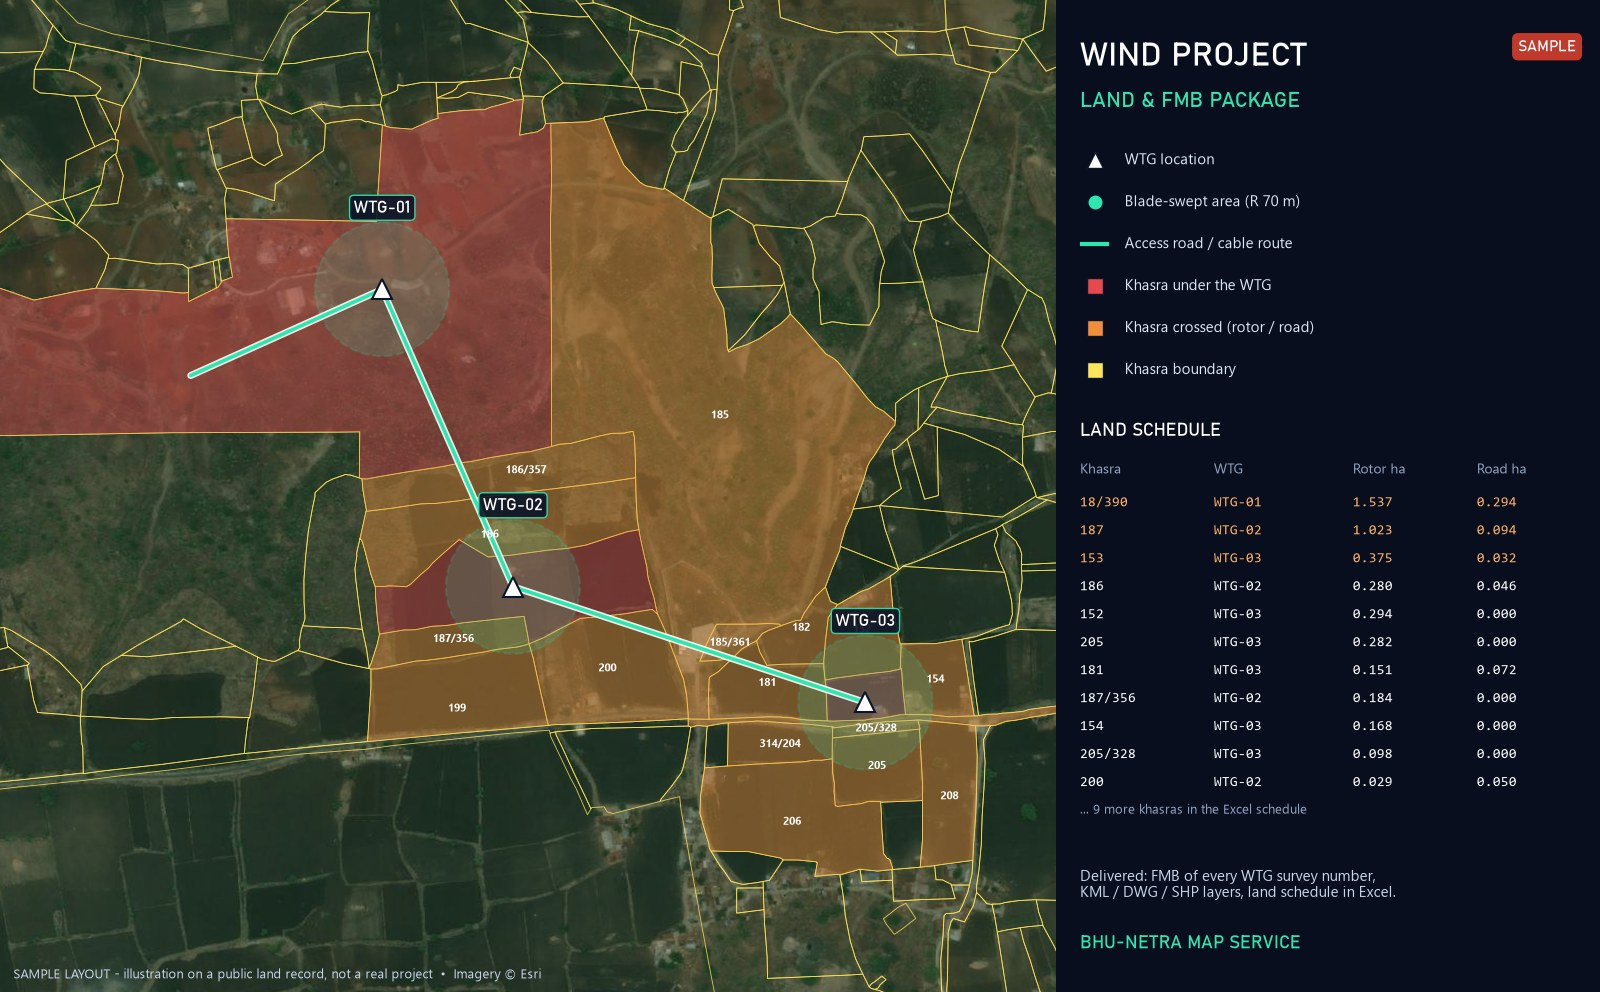
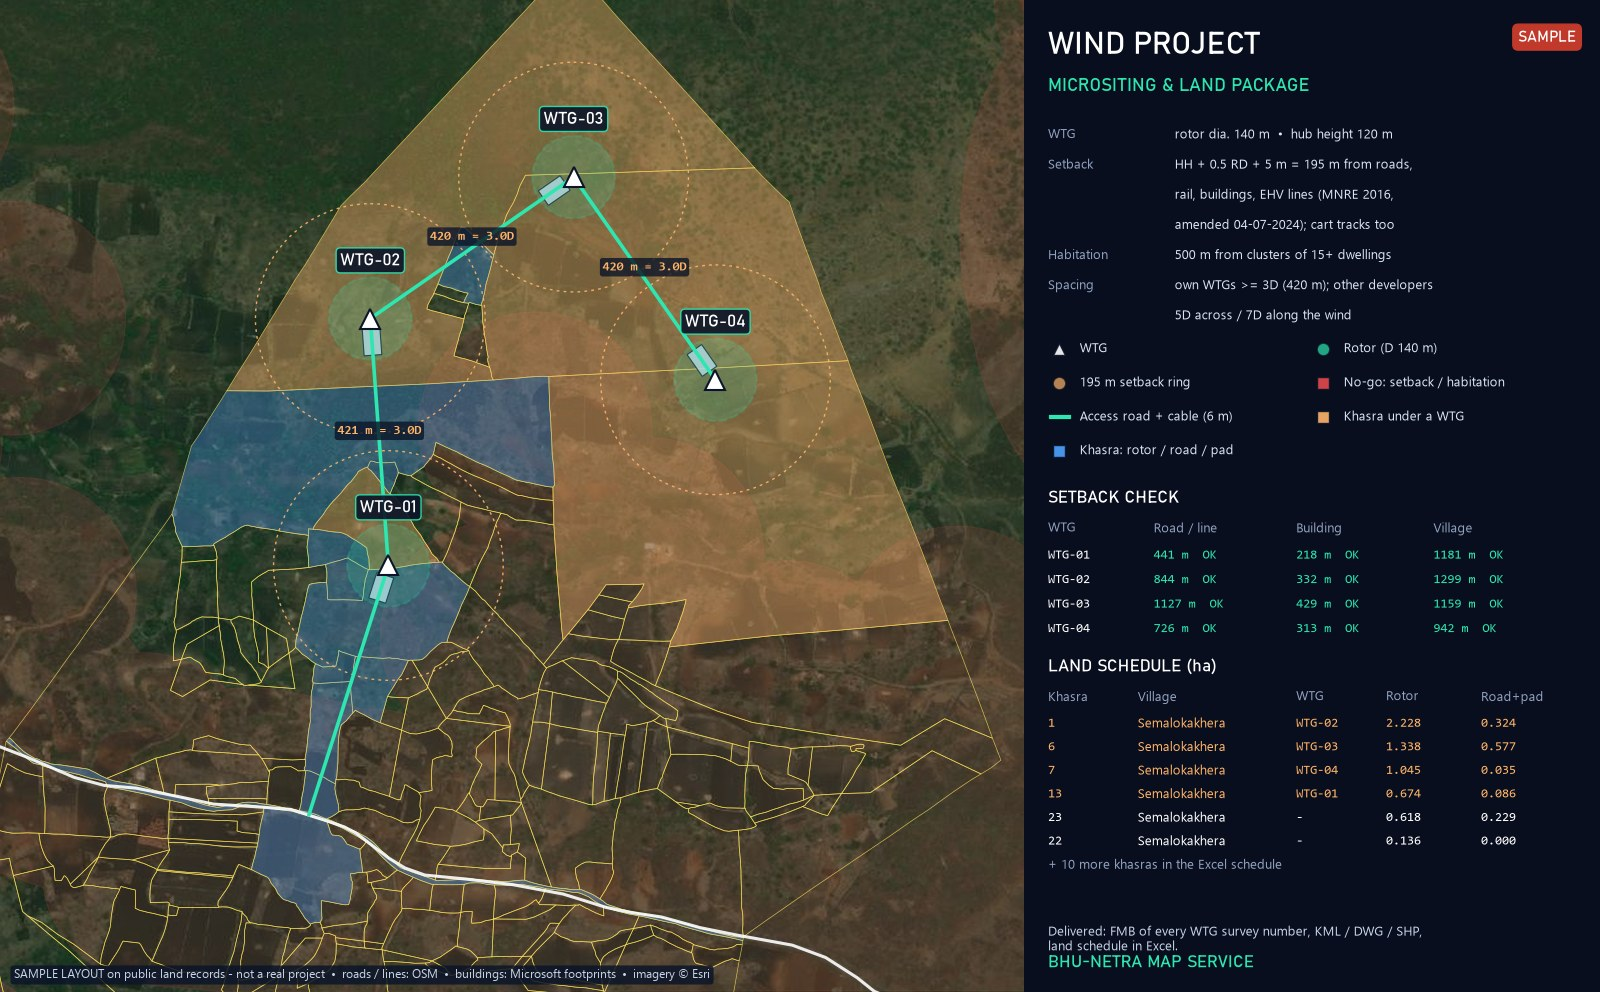
Wind layout redone to MNRE setbacks (140 m rotor, 195 m from roads/buildings, 500 m from villages; no WTG near any road) + solar layout sample

diff --git a/index.html b/index.html
@@ -222,7 +222,7 @@ section{padding:80px 0}
 .pw h3{font:700 19px Rajdhani,sans-serif;color:#fff;margin:6px 0}
 .pw p{color:#B9C7DF;font-size:14px}
 .svis{display:grid;grid-template-columns:repeat(3,1fr);gap:18px;margin-top:22px}
-.svis.wvis{grid-template-columns:1fr 1fr;margin:0 0 22px}
+.svis.wvis{margin:0 0 22px}
 .libcard small a{color:var(--em-lit)}
 .proj{display:grid;grid-template-columns:repeat(5,1fr);gap:16px}
 .pn .pw-big{font:700 46px/1 Rajdhani,sans-serif;color:var(--amb-lit);text-shadow:0 0 18px rgba(242,142,58,.35)}
@@ -416,7 +416,7 @@ nav .btn{white-space:nowrap}
       <div class="card reveal"><div class="ico">&#9728;</div><h3>Solar &amp; wind site survey</h3><p>Site feasibility: land category, slope, obstacles, access and available area - combined with our khasra and govt-land maps.</p></div>
       <div class="card reveal"><div class="ico">&#9776;</div><h3>Layout &amp; plotting plans</h3><p>Plot, colony and project layout plans prepared on the surveyed base, ready for approval and sale.</p></div>
       <div class="card reveal"><div class="ico">&#9998;</div><h3>FMB preparation</h3><p>Field Measurement Book sketches for every survey number - measured on the ground, drawn to scale with chains, offsets and neighbours, georeferenced.</p></div>
-      <div class="card reveal"><div class="ico">&#10033;</div><h3>WTG micro-siting survey</h3><p>Wind turbine locations staked with DGPS, the khasras under each WTG, its blade-swept area and setbacks from roads, houses and lines.</p></div>
+      <div class="card reveal"><div class="ico">&#10033;</div><h3>WTG micro-siting survey</h3><p>Turbine points checked against the MNRE setbacks (hub height + half rotor + 5 m from roads, buildings and lines; 500 m from villages), staked with DGPS, with the khasras under each WTG.</p></div>
       <div class="card reveal"><div class="ico">&#9783;</div><h3>Land acquisition schedule</h3><p>Khasra-wise affected area, owner details from the records and the land schedule in Excel - for leases, purchase and compensation.</p></div>
       <div class="card reveal"><div class="ico">&#9638;</div><h3>Sub-division &amp; partition survey</h3><p>Splitting a khasra on the ground and on the map - new boundaries, areas and a sketch ready for the revenue records.</p></div>
     </div>
@@ -537,7 +537,9 @@ nav .btn{white-space:nowrap}
       <figure class="libcard reveal"><div class="libimg"><img src="images/wind/wind_fmb_sample.jpg" alt="Sample FMB (Field Measurement Book) sketch of a survey number" loading="lazy"><span class="sw">FMB &middot; sample</span></div>
         <figcaption><b>FMB SKETCH</b><small>Chain line, offsets, side lengths, neighbours, corner coordinates and area - for every WTG survey number.</small></figcaption></figure>
       <figure class="libcard reveal"><div class="libimg"><img src="images/wind/wind_layout_sample.jpg" alt="Sample wind project land layout with WTG points and land schedule" loading="lazy"><span class="sw">Wind layout &middot; sample</span></div>
-        <figcaption><b>WIND LAND PACKAGE</b><small>WTG points, blade-swept area and access road on the khasra map, with the khasra-wise land schedule. <a href="guides/fmb-for-wind-projects/">What is an FMB? &rarr;</a></small></figcaption></figure>
+        <figcaption><b>WIND MICROSITING &amp; LAND</b><small>140 m rotor, every WTG 195 m+ from roads and houses and 500 m+ from villages (MNRE), access road, khasra-wise land schedule. <a href="guides/fmb-for-wind-projects/">What is an FMB? &rarr;</a></small></figcaption></figure>
+      <figure class="libcard reveal"><div class="libimg"><img src="images/solar/solar_layout_sample.jpg" alt="Sample solar project layout on khasra maps" loading="lazy"><span class="sw">Solar layout &middot; sample</span></div>
+        <figcaption><b>SOLAR LAND &amp; LAYOUT</b><small>Site on the khasra map clear of roads, houses and tracks, module blocks, internal roads, pooling substation and the land schedule.</small></figcaption></figure>
     </div>
     <div class="grid4 pws">
       <div class="pw hot reveal"><span class="pk">WIND</span><h3>Wind farm FMB &amp; land</h3><p>FMB sketches for every WTG survey number, turbine points on the khasra map, access roads and cable routes, land schedule.</p><div class="pt"><span>FMB</span><span>WTG siting</span><span>DGPS</span><span>KML / DWG</span></div></div>

diff --git a/guides/fmb-for-wind-projects/index.html b/guides/fmb-for-wind-projects/index.html
@@ -36,9 +36,12 @@ footer{text-align:center;color:var(--muted);font-size:13px;padding:24px 0 40px}
 <h2>Why wind projects need FMBs</h2>
 <ul><li>Lease or sale deeds for the WTG land refer to the survey number, its boundaries and its area.</li><li>Land conversion, revenue and government approvals ask for the sketch of each survey number used.</li><li>Micro-siting moves a turbine by a few metres - the FMB shows which survey numbers the foundation, crane pad and blade-swept area fall in.</li><li>Compensation for roads and cable routes is paid on the affected area of each survey number.</li><li>Lenders and due-diligence teams check that every WTG sits on land the project actually holds.</li></ul>
 <h2>What a good FMB must show</h2>
-<ul><li>Survey number, village, tehsil / taluk and district</li><li>Every corner marked and every side length in metres</li><li>The chain (base) line with chainage and offsets of each corner</li><li>Neighbouring survey numbers on all sides</li><li>Area - and how it compares with the land record</li><li>North arrow, scale and, for wind projects, real-world coordinates of the corners</li><li>The WTG point, its blade-swept circle and the road / cable route where they cross the land</li></ul>
+<ul><li>Survey number, village, tehsil / taluk and district</li><li>Every corner marked and every side length in metres</li><li>The chain (base) line with chainage and offsets of each corner</li><li>Neighbouring survey numbers on all sides</li><li>Area - and how it compares with the land record</li><li>North arrow, scale and, for wind projects, real-world coordinates of the corners</li><li>The WTG point, its rotor circle and the road / cable route where they cross the land</li></ul>
+<h2>Siting rules we check (MNRE)</h2>
+<p>The MNRE Guidelines for Development of Onshore Wind Power Projects (2016, amended on 4 July 2024) set the distances every WTG location must respect. We draw them on the khasra map before any land is fixed:</p>
+<ul><li>Hub height + half the rotor diameter + 5 m from public roads, railways, highways, buildings and EHV lines - for a 140 m rotor on a 120 m hub that is 195 m</li><li>500 m from a cluster of dwellings (15 or more buildings), unless the state sets its own norm</li><li>5D across and 7D along the predominant wind from turbines of another developer (D = rotor diameter); between your own turbines the layout is optimised for output</li><li>A WTG never stands on or beside a road - in our layouts village cart tracks get the same setback as public roads</li></ul>
 <h2>How we prepare it</h2>
-<ol><li>Collect the village map and land records for the survey numbers of each turbine.</li><li>Digitize the survey numbers and georeference them to satellite imagery (WGS 84 / UTM).</li><li>Place the WTG coordinates, blade-swept area, crane pad, access road and cable route on the map.</li><li>Field survey with DGPS / Total Station where the boundaries must be confirmed on the ground.</li><li>Draw the FMB of every survey number and prepare the khasra-wise land schedule in Excel.</li></ol>
+<ol><li>Collect the village map and land records for the survey numbers of each turbine.</li><li>Digitize the survey numbers and georeference them to satellite imagery (WGS 84 / UTM).</li><li>Place the WTG coordinates, rotor circle, crane pad, access road and cable route on the map and check every setback.</li><li>Field survey with DGPS / Total Station where the boundaries must be confirmed on the ground.</li><li>Draw the FMB of every survey number and prepare the khasra-wise land schedule in Excel.</li></ol>
 <h2>What you receive</h2>
 <ul><li>FMB sketch of every WTG survey number (PDF + DWG)</li><li>Wind layout on the khasra map - KML for Google Earth, DWG for AutoCAD, SHP for GIS</li><li>Land schedule: survey number, owner details from the records, area under the WTG, rotor and road</li><li>Village boundaries and one combined project layer</li></ul>
 <p>The sample on this page is drawn from the georeferenced map of a public land record. On a real project the same sketch is checked against the field survey before it goes into the land documents.</p><div class="box"><div class="tag">BHU-NETRA MAP SERVICE</div><h2>Need khasra maps or a survey?</h2>
